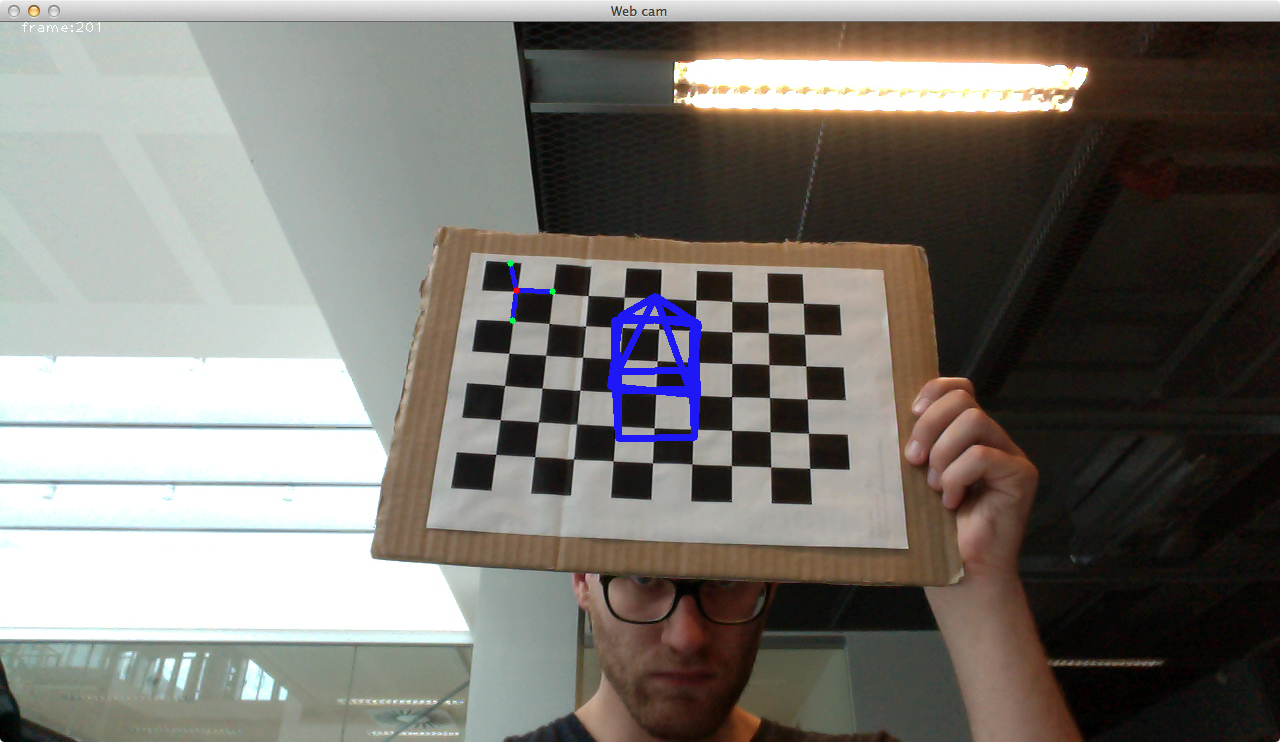
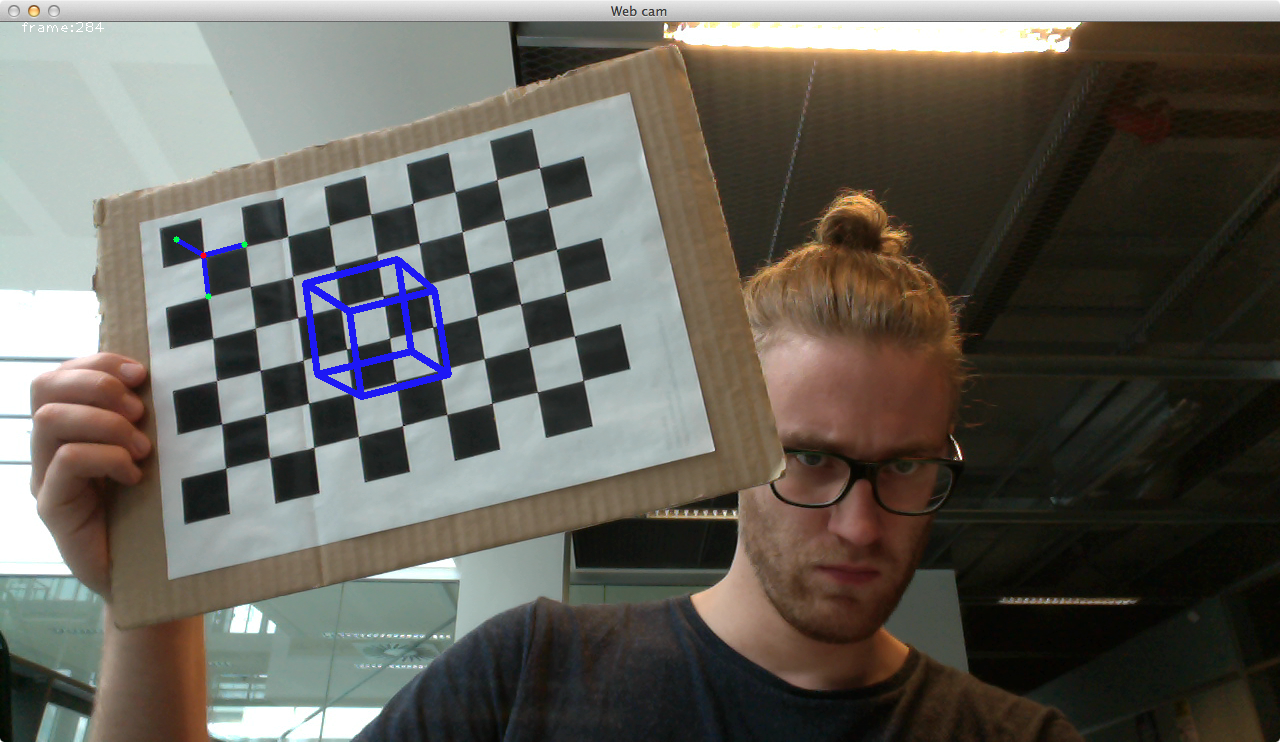
better figures

diff --git a/report2/report_ass2.tex b/report2/report_ass2.tex
@@ -191,19 +191,19 @@ The OpenCV function \texttt{calibrateCamera} can infer the focal length, the dis
 
 \subsection{Camera Matrix via Homography}
 %mw
-After calibrating the camera, the following data is available. The camera matrix $K$, lists of rotation and translation vectors, one for each sample done in the calibration, the first frame of the samples and a set of points corresponding to the corners of the chess board in world coordinates.\\
+After calibrating the camera, the following data is available. The camera matrix $K$, lists of rotation and translation vectors, one for each sample done in the calibration, the first frame of the samples and a set of points corresponding to the corners of the chess board in world coordinates.
 
-The world coordinate system is defined according to the chessboard, meaning that the origin of the coordinate system is defined as the inner corner of one of the corner tiles of the chess board and that the chess board spans the $xy$-plane of the coordinate system. In other words all points that are on the same plane as the chess board in world coordinates are located in the $xy$-plane of the world coordinate system, meaning that for all of these points $z=0$.\\
+The world coordinate system is defined according to the chessboard, meaning that the origin of the coordinate system is defined as the inner corner of one of the corner tiles of the chess board and that the chess board spans the $xy$-plane of the coordinate system. In other words all points that are on the same plane as the chess board in world coordinates are located in the $xy$-plane of the world coordinate system, meaning that for all of these points $z=0$.
 
-Adding to this, that a frame in a video sequence is a 2D representation, meaning a plane, of the real world. This means that if we can find set corresponding points on the chess board and on the current frame, we can create a homography, which can be used to map any 2D structure on the the chess board to the current frame.\\
+Adding to this, that a frame in a video sequence is a 2D representation, meaning a plane, of the real world. This means that if we can find set corresponding points on the chess board and on the current frame, we can create a homography, which can be used to map any 2D structure on the the chess board to the current frame.
 
-Because the transformation is from one plane to another the projection matrix $P_1$, from  the first sample in the calibration, which is known due to the calibration data, the two projection matrices can be related $P_2 = H P_1$ where $H = K[r_1,r_2,t]$, from this it is possible to calculate the third rotation vector $r_3 = r_1 \times r_2$ in the the rotation matrix $R$, meaning we can recalculate $P_2$, so that $z$ values in world coordinates can be mapped as well. By using $P_2$, which is calculated for each frame in a sequence, we can now map any point in world coordinates to that given frame. Figure \ref{fig:cube_from_homography} shows an image augmented with a cube in 3 dimensions, using this technique.\\
+Because the transformation is from one plane to another the projection matrix $P_1$, from  the first sample in the calibration, which is known due to the calibration data, the two projection matrices can be related $P_2 = H P_1$ where $H = K[r_1,r_2,t]$, from this it is possible to calculate the third rotation vector $r_3 = r_1 \times r_2$ in the the rotation matrix $R$, meaning we can recalculate $P_2$, so that $z$ values in world coordinates can be mapped as well. By using $P_2$, which is calculated for each frame in a sequence, we can now map any point in world coordinates to that given frame. Figure \ref{fig:cube_from_homography} shows an image augmented with a cube in 3 dimensions, using this technique.
 
 
 \begin{figure}[H]
 \begin{centering}
 \includegraphics[width=0.8\linewidth]{cube_from_homography}
-\caption{Augmented cube and pyramid using homography to find the current $P$}
+\caption{Augmented cube using homography to find the current $P$}
 \label{fig:cube_from_homography}
 \end{centering}
 \end{figure}
